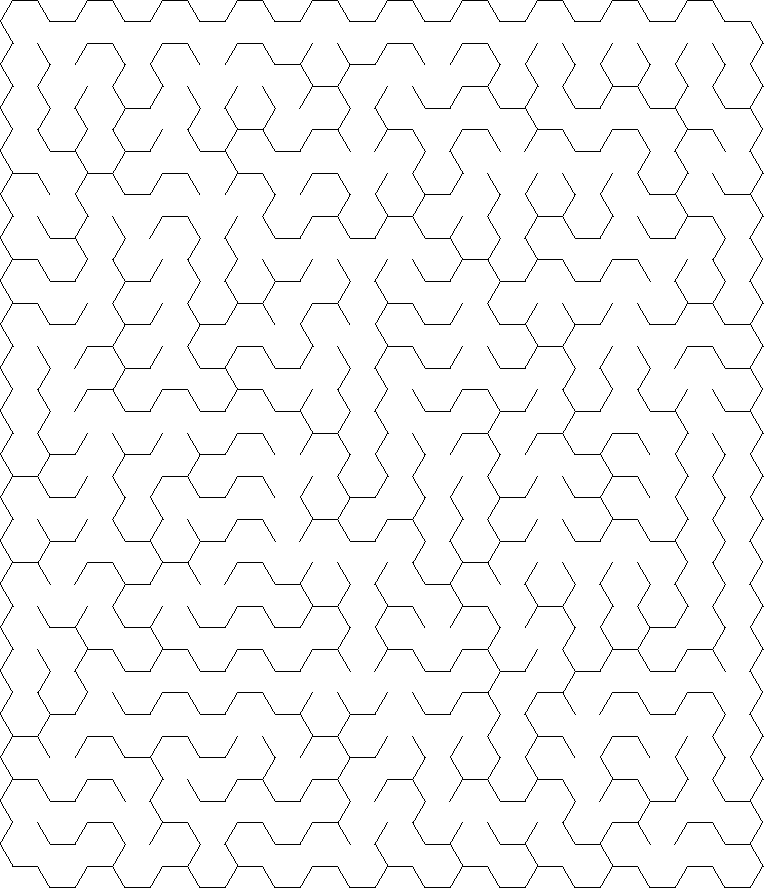
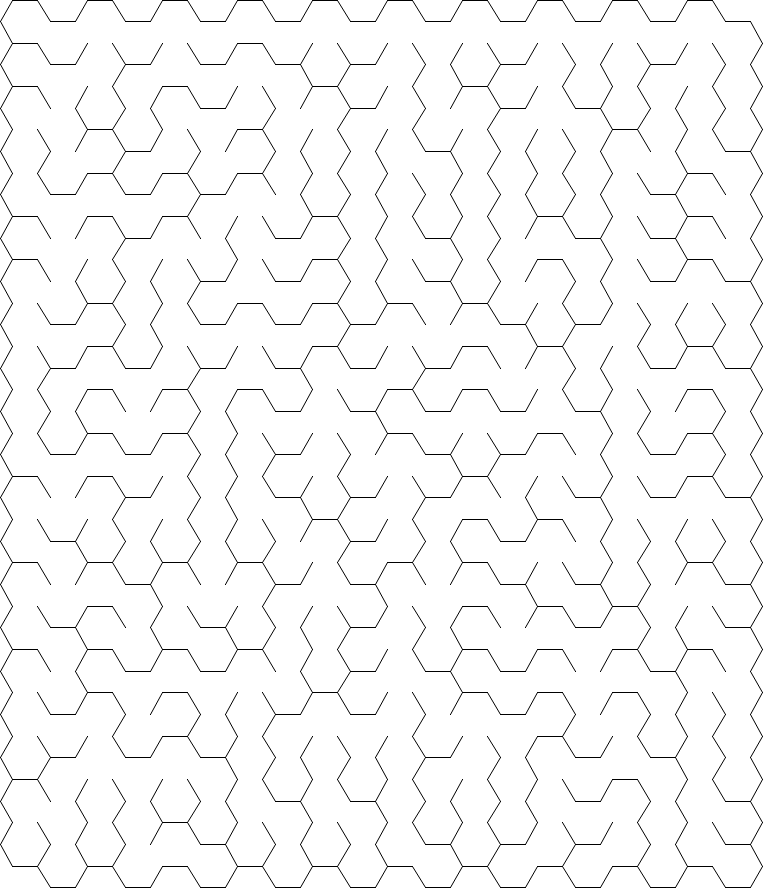
fix: use antialiased lines for hex grids

diff --git a/src/grid.rs b/src/grid.rs
@@ -648,24 +648,42 @@ impl Grid<Hex> {
 
             // f/n = far/near
             // n/s/e/w = north/south/east/west
-            let x_fw = cx - cell_size;
-            let x_nw = cx - a_size;
-            let x_ne = cx + a_size;
-            let x_fe = cx + cell_size;
+            let x_fw = (cx - cell_size) as i32;
+            let x_nw = (cx - a_size) as i32;
+            let x_ne = (cx + a_size) as i32;
+            let x_fe = (cx + cell_size) as i32;
 
             // m = middle
-            let y_n = cy - b_size;
-            let y_m = cy;
-            let y_s = cy + b_size;
+            let y_n = (cy - b_size) as i32;
+            let y_m = cy as i32;
+            let y_s = (cy + b_size) as i32;
 
             if self.south_west(cell).is_none() {
-                draw_line_segment_mut(&mut img, (x_fw, y_m), (x_nw, y_s), wall);
+                draw_antialiased_line_segment_mut(
+                    &mut img,
+                    (x_fw, y_m),
+                    (x_nw, y_s),
+                    wall,
+                    pixelops::interpolate,
+                );
             }
             if self.north_west(cell).is_none() {
-                draw_line_segment_mut(&mut img, (x_fw, y_m), (x_nw, y_n), wall);
+                draw_antialiased_line_segment_mut(
+                    &mut img,
+                    (x_fw, y_m),
+                    (x_nw, y_n),
+                    wall,
+                    pixelops::interpolate,
+                );
             }
             if self.north(cell).is_none() {
-                draw_line_segment_mut(&mut img, (x_nw, y_n), (x_ne, y_n), wall);
+                draw_antialiased_line_segment_mut(
+                    &mut img,
+                    (x_nw, y_n),
+                    (x_ne, y_n),
+                    wall,
+                    pixelops::interpolate,
+                );
             }
 
             if !self
@@ -673,21 +691,39 @@ impl Grid<Hex> {
                 .map(|east| self.are_linked(cell, east))
                 .unwrap_or(false)
             {
-                draw_line_segment_mut(&mut img, (x_ne, y_n), (x_fe, y_m), wall);
+                draw_antialiased_line_segment_mut(
+                    &mut img,
+                    (x_ne, y_n),
+                    (x_fe, y_m),
+                    wall,
+                    pixelops::interpolate,
+                );
             }
             if !self
                 .south_east(cell)
                 .map(|east| self.are_linked(cell, east))
                 .unwrap_or(false)
             {
-                draw_line_segment_mut(&mut img, (x_fe, y_m), (x_ne, y_s), wall);
+                draw_antialiased_line_segment_mut(
+                    &mut img,
+                    (x_fe, y_m),
+                    (x_ne, y_s),
+                    wall,
+                    pixelops::interpolate,
+                );
             }
             if !self
                 .south(cell)
                 .map(|east| self.are_linked(cell, east))
                 .unwrap_or(false)
             {
-                draw_line_segment_mut(&mut img, (x_ne, y_s), (x_nw, y_s), wall);
+                draw_antialiased_line_segment_mut(
+                    &mut img,
+                    (x_ne, y_s),
+                    (x_nw, y_s),
+                    wall,
+                    pixelops::interpolate,
+                );
             }
         }
 
